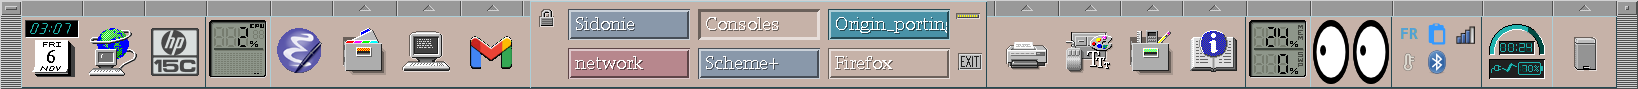
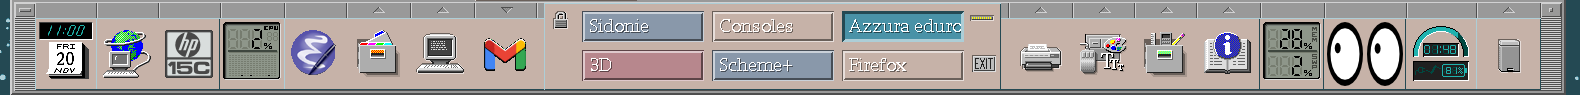
README : nouvelle capture du panneau et de la zone de notification en coin

diff --git a/README.md b/README.md
@@ -18,13 +18,18 @@ My personal **CDE** (Common Desktop Environment) setup on Ubuntu: the contents o
 **System tray** (`tray-panel.sh`): a `stalonetray` column in the bottom-right corner
 of the desktop, outside the Front Panel (NsCDE style), on every workspace, growing
 upwards as icons appear (network, Bluetooth, clipboard history, IBus, Telegram…).
-Outside the panel the right click reaches the icons. It is put on every workspace
+Outside the panel the buttons of the icons work much better: the right click
+(app menu) reaches every icon, GTK 3 applets included, which was impossible inside the
+panel where dtwm keeps it for its own menu, and the Front Panel itself is shorter.
+It is put on every workspace
 by `src/occupyall.c` (`DtWsmOccupyAllWorkspaces`; dtwm ignores `--sticky`) and kept
 in the corner when it grows or the screen size changes. Build:
 `gcc -O -o ~/.dt/bin/occupyall ~/.dt/src/occupyall.c -I/usr/dt/include -L/usr/dt/lib
 -Wl,-rpath,/usr/dt/lib -lDtSvc -ltt -lDtXinerama -lXm -lXt -lX11`.
 (`src/trayclick.c`, unused now, turned a middle-click into a right click when the
 tray was inside the panel.)
+
+![The system tray in the bottom-right corner: network, keyboard layout, Bluetooth, clipboard](doc/tray-corner.png)
 
 **Subpanels** (`types/fp_dynamic/*.fp`): the CDE File Manager, Nautilus trash, an applications
 folder, `xfce4-appfinder`, the CDE calendar, Dropbox (in a terminal that shows its
